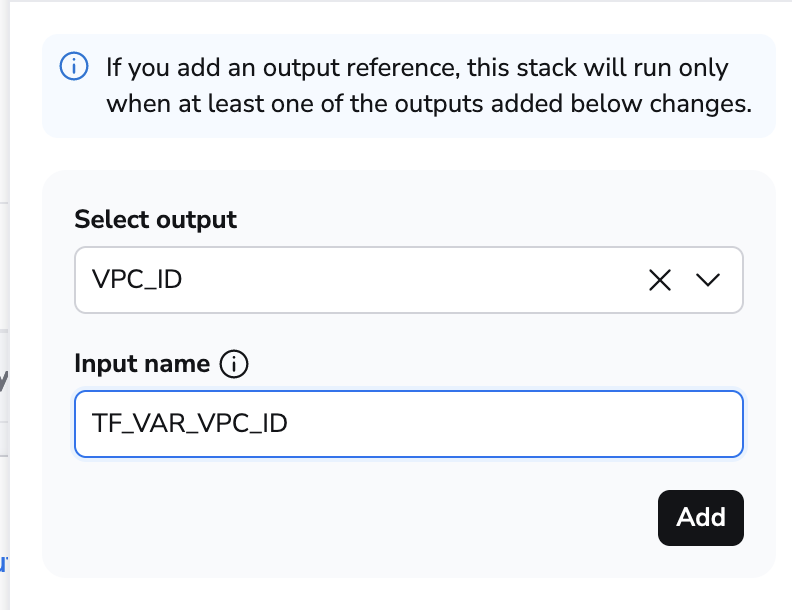
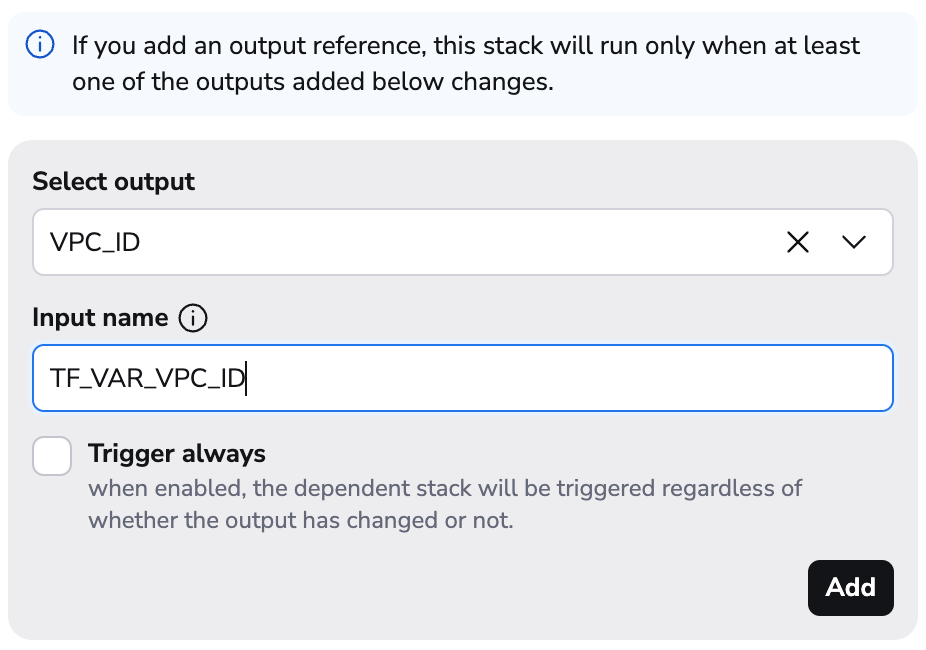
Add `trigger always` flag to stack dependencies

diff --git a/docs/concepts/stack/stack-dependencies.md b/docs/concepts/stack/stack-dependencies.md
@@ -24,7 +24,7 @@ Stack dependencies can be defined in the `Dependencies` tab of the stack.
 
 ### Defining references between stacks
 
-You have the option to refer to outputs of other stacks: your stack will be only triggered if the referenced output has been created or changed.
+You have the option to refer to outputs of other stacks: by default, your stack will be only triggered if the referenced output has been created or changed. If you enable the `Trigger always` option however, the stack will be triggered regardless of the referenced output.
 
 ![](../../assets/screenshots/Screenshot_Stack_Dependencies_add_ref.png)
 
@@ -104,7 +104,7 @@ graph TD;
 
 In case your `Infrastructure` stack has a `VPC_ID`, you can set that as an input to your `Database` stack (e.g. `TF_VAR_VPC_ID`). When the `Infrastructure` stack finishes running, the `Database` stack will be triggered and the `TF_VAR_VPC_ID` environment variable will be set to the value of the `VPC_ID` output of the `Infrastructure` stack.
 
-If there is one or more references defined, the stack will only be triggered if the referenced output has been created or changed. If they remain the same, the downstream stack will be skipped.
+If there is one or more references defined, the stack will only be triggered if the referenced output has been created or changed. If they remain the same, the downstream stack will be skipped. You can control this behavior by enabling or disabling the `Trigger always` option.
 
 #### Scenario 2
 
